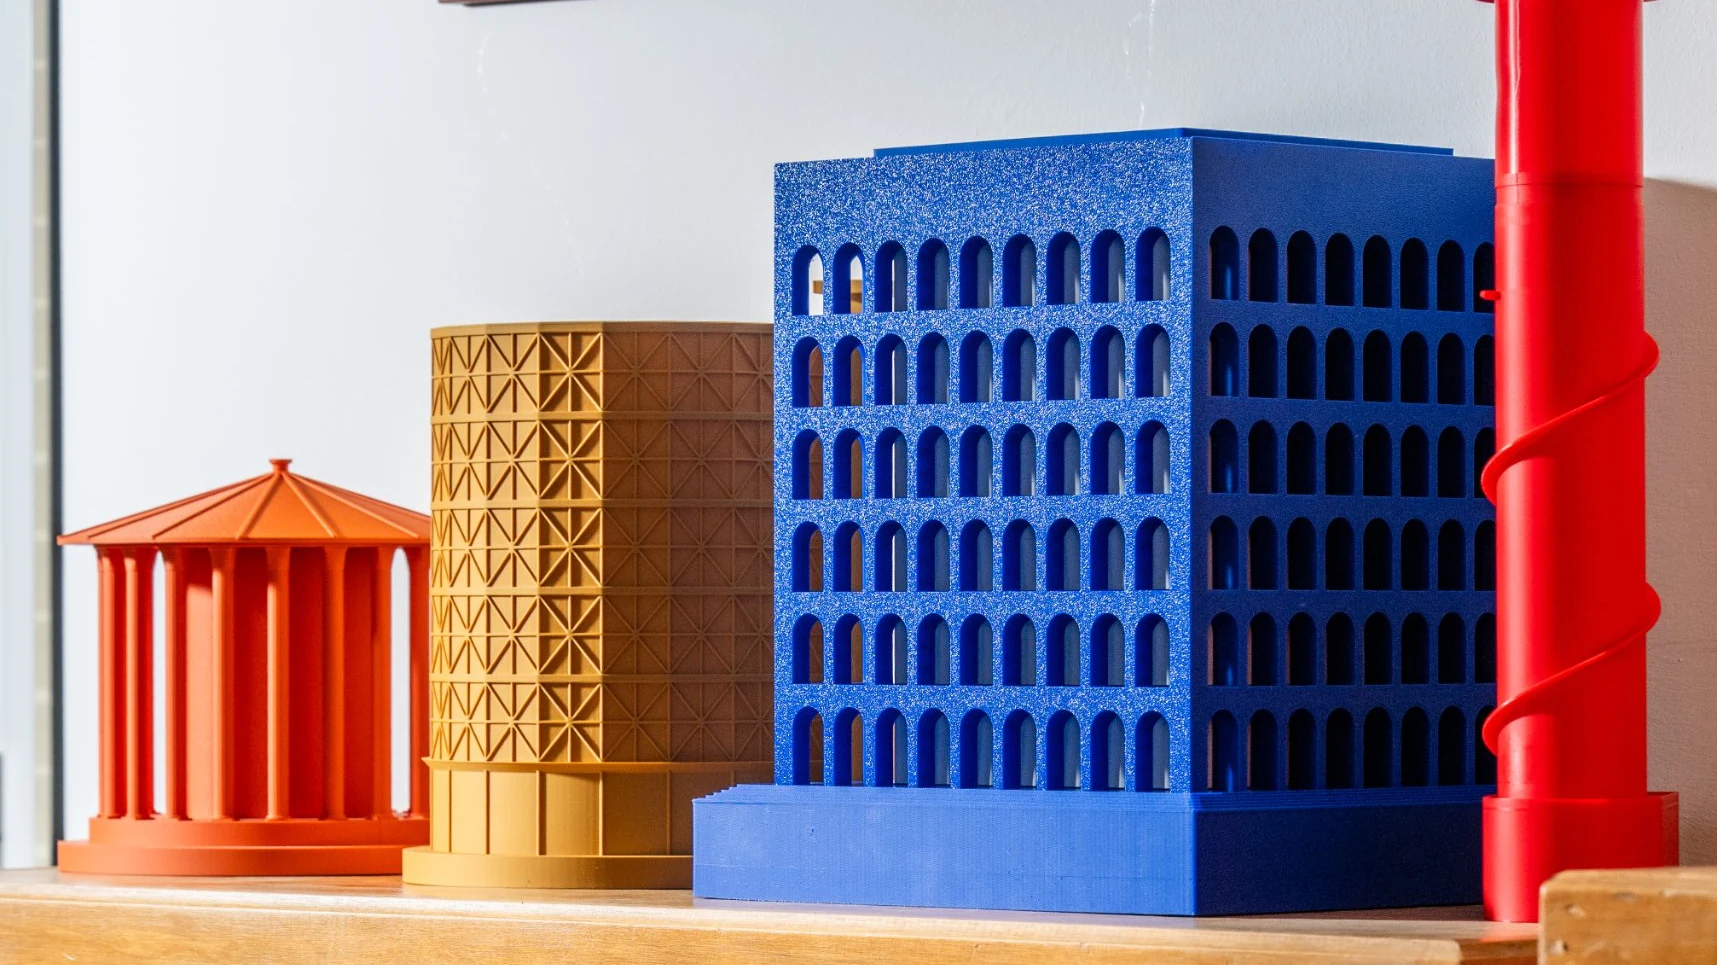
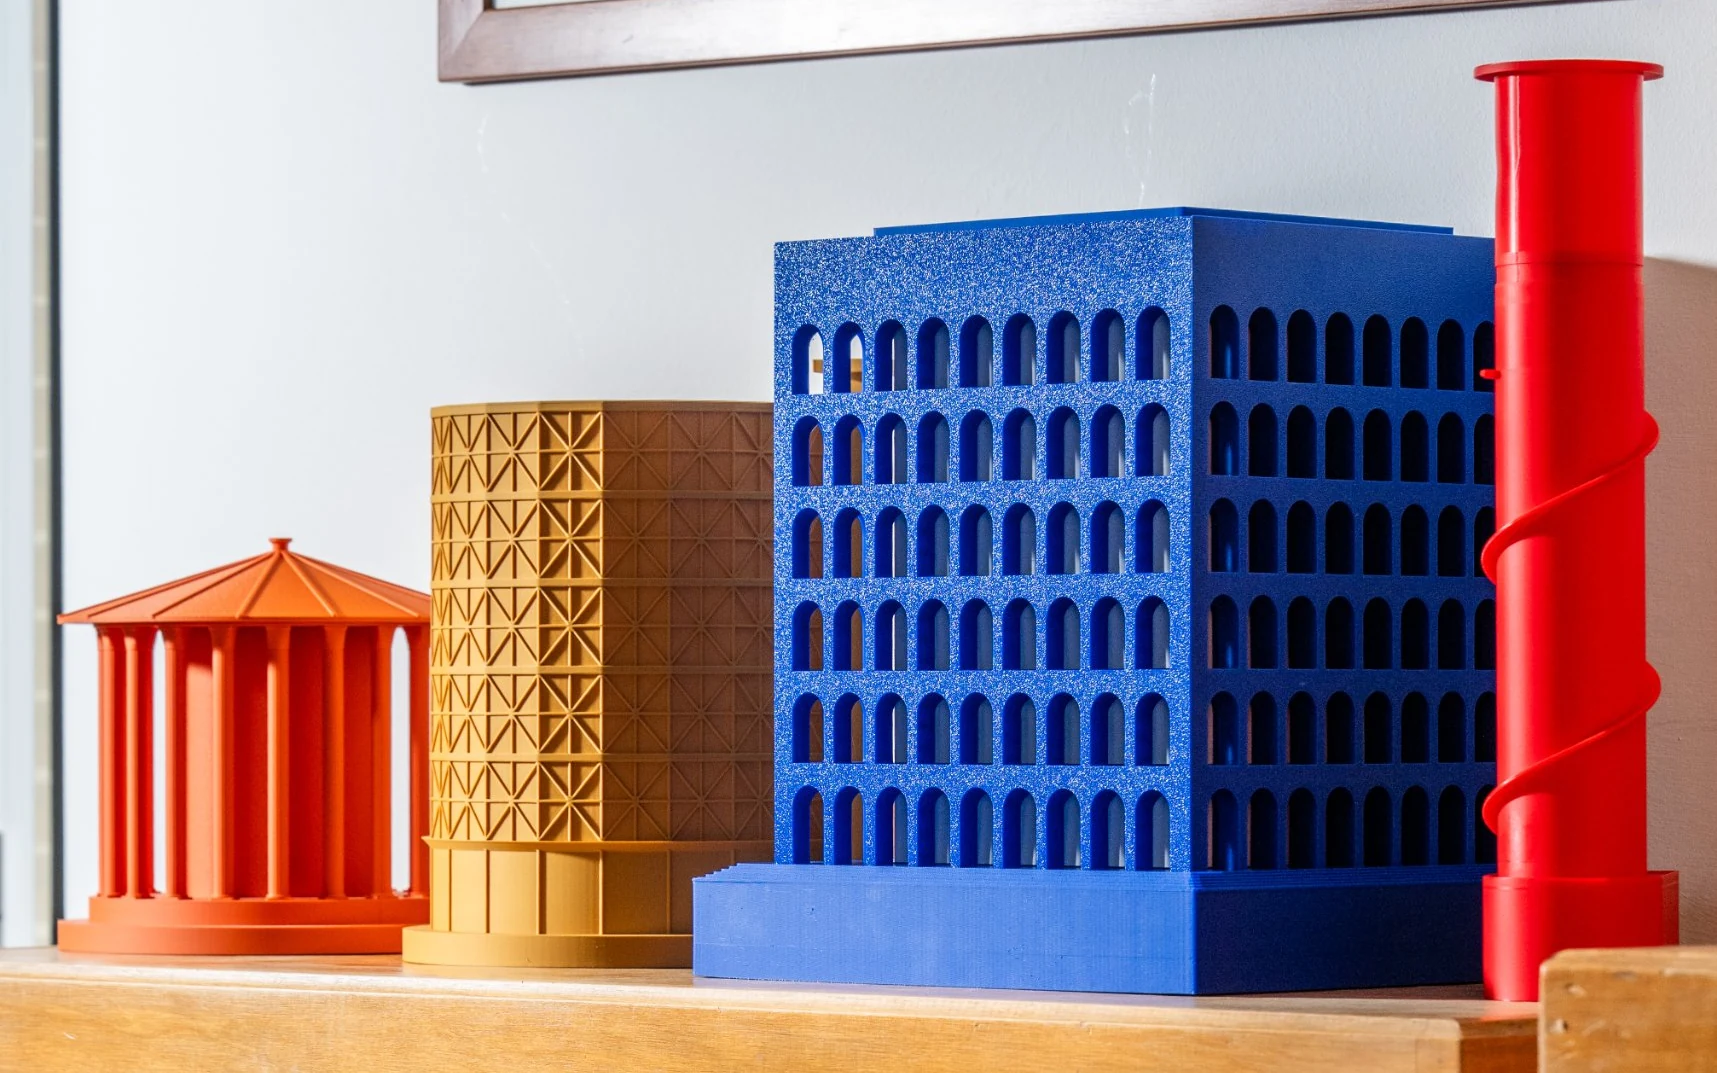
Su misura: lampade intere, schede in 16:10
Claude-Session: https://claude.ai/code/session_01Po4dUyLTzZZnEBmehBGMyj

diff --git a/su-misura.html b/su-misura.html
@@ -68,7 +68,7 @@ if ('scrollRestoration' in history) history.scrollRestoration = 'manual';
 <div style="display: grid; grid-template-columns: repeat(auto-fit, minmax(min(100%, 380px), 1fr)); gap: 24px">
 
 <article class="panel" style="background: #EDE7DF; border: 1px solid #DCD3C4; display: flex; flex-direction: column">
-<img src="img/lampade-roma-orizz.webp" alt="Lampade STUDIO38D ispirate a Roma: Ercole, Gaz, Civiltà e Piezo" width="1717" height="965" loading="lazy" style="width: calc(100% - 40px); height: auto; flex: none; margin: 20px 20px 0; aspect-ratio: 16 / 9; object-fit: cover; display: block; border-radius: 14px">
+<img src="img/lampade-roma-orizz.webp" alt="Lampade STUDIO38D ispirate a Roma: Ercole, Gaz, Civiltà e Piezo" width="1717" height="1073" loading="lazy" style="width: calc(100% - 40px); height: auto; flex: none; margin: 20px 20px 0; aspect-ratio: 16 / 10; object-fit: cover; display: block; border-radius: 14px">
 <div style="padding: 28px; display: flex; flex-direction: column; gap: 14px; flex-grow: 1">
 <div style="display: flex; justify-content: space-between; align-items: center; gap: 12px; flex-wrap: wrap">
 <span style="font-family: 'Inter Tight', sans-serif; font-weight: 600; font-size: 13px; color: #A9512F">A — Aziende</span>
@@ -87,7 +87,7 @@ if ('scrollRestoration' in history) history.scrollRestoration = 'manual';
 </article>
 
 <article class="panel" style="background: #EDE7DF; border: 1px solid #DCD3C4; display: flex; flex-direction: column">
-<img src="img/minotauro-occhi.webp" alt="Il Minotauro di STUDIO38D di notte con gli occhi illuminati, a Parco Schuster" width="2000" height="1125" loading="lazy" style="width: calc(100% - 40px); height: auto; flex: none; margin: 20px 20px 0; aspect-ratio: 2000 / 1125; object-fit: cover; display: block; border-radius: 14px">
+<img src="img/minotauro-occhi.webp" alt="Il Minotauro di STUDIO38D di notte con gli occhi illuminati, a Parco Schuster" width="2000" height="1125" loading="lazy" style="width: calc(100% - 40px); height: auto; flex: none; margin: 20px 20px 0; aspect-ratio: 16 / 10; object-fit: cover; display: block; border-radius: 14px">
 <div style="padding: 28px; display: flex; flex-direction: column; gap: 14px; flex-grow: 1">
 <span style="font-family: 'Inter Tight', sans-serif; font-weight: 600; font-size: 13px; color: #A9512F">B — Eventi</span>
 <h2 style="margin: 0; font-family: 'Inter Tight', sans-serif; font-weight: 800; letter-spacing: -0.03em; font-size: 34px; line-height: 1">Installazioni e grande formato</h2>
@@ -102,7 +102,7 @@ if ('scrollRestoration' in history) history.scrollRestoration = 'manual';
 </article>
 
 <article class="panel" style="background: #EDE7DF; border: 1px solid #DCD3C4; display: flex; flex-direction: column">
-<img src="img/plastico-1.webp" alt="Plastico architettonico stampato in 3D" width="1600" height="1200" loading="lazy" style="width: calc(100% - 40px); height: auto; flex: none; margin: 20px 20px 0; aspect-ratio: 16 / 9; object-fit: cover; display: block; border-radius: 14px">
+<img src="img/plastico-1.webp" alt="Plastico architettonico stampato in 3D" width="1600" height="1200" loading="lazy" style="width: calc(100% - 40px); height: auto; flex: none; margin: 20px 20px 0; aspect-ratio: 16 / 10; object-fit: cover; display: block; border-radius: 14px">
 <div style="padding: 28px; display: flex; flex-direction: column; gap: 14px; flex-grow: 1">
 <span style="font-family: 'Inter Tight', sans-serif; font-weight: 600; font-size: 13px; color: #A9512F">C — Tecnico</span>
 <h2 style="margin: 0; font-family: 'Inter Tight', sans-serif; font-weight: 800; letter-spacing: -0.03em; font-size: 34px; line-height: 1">Prototipi e progetti tecnici</h2>
